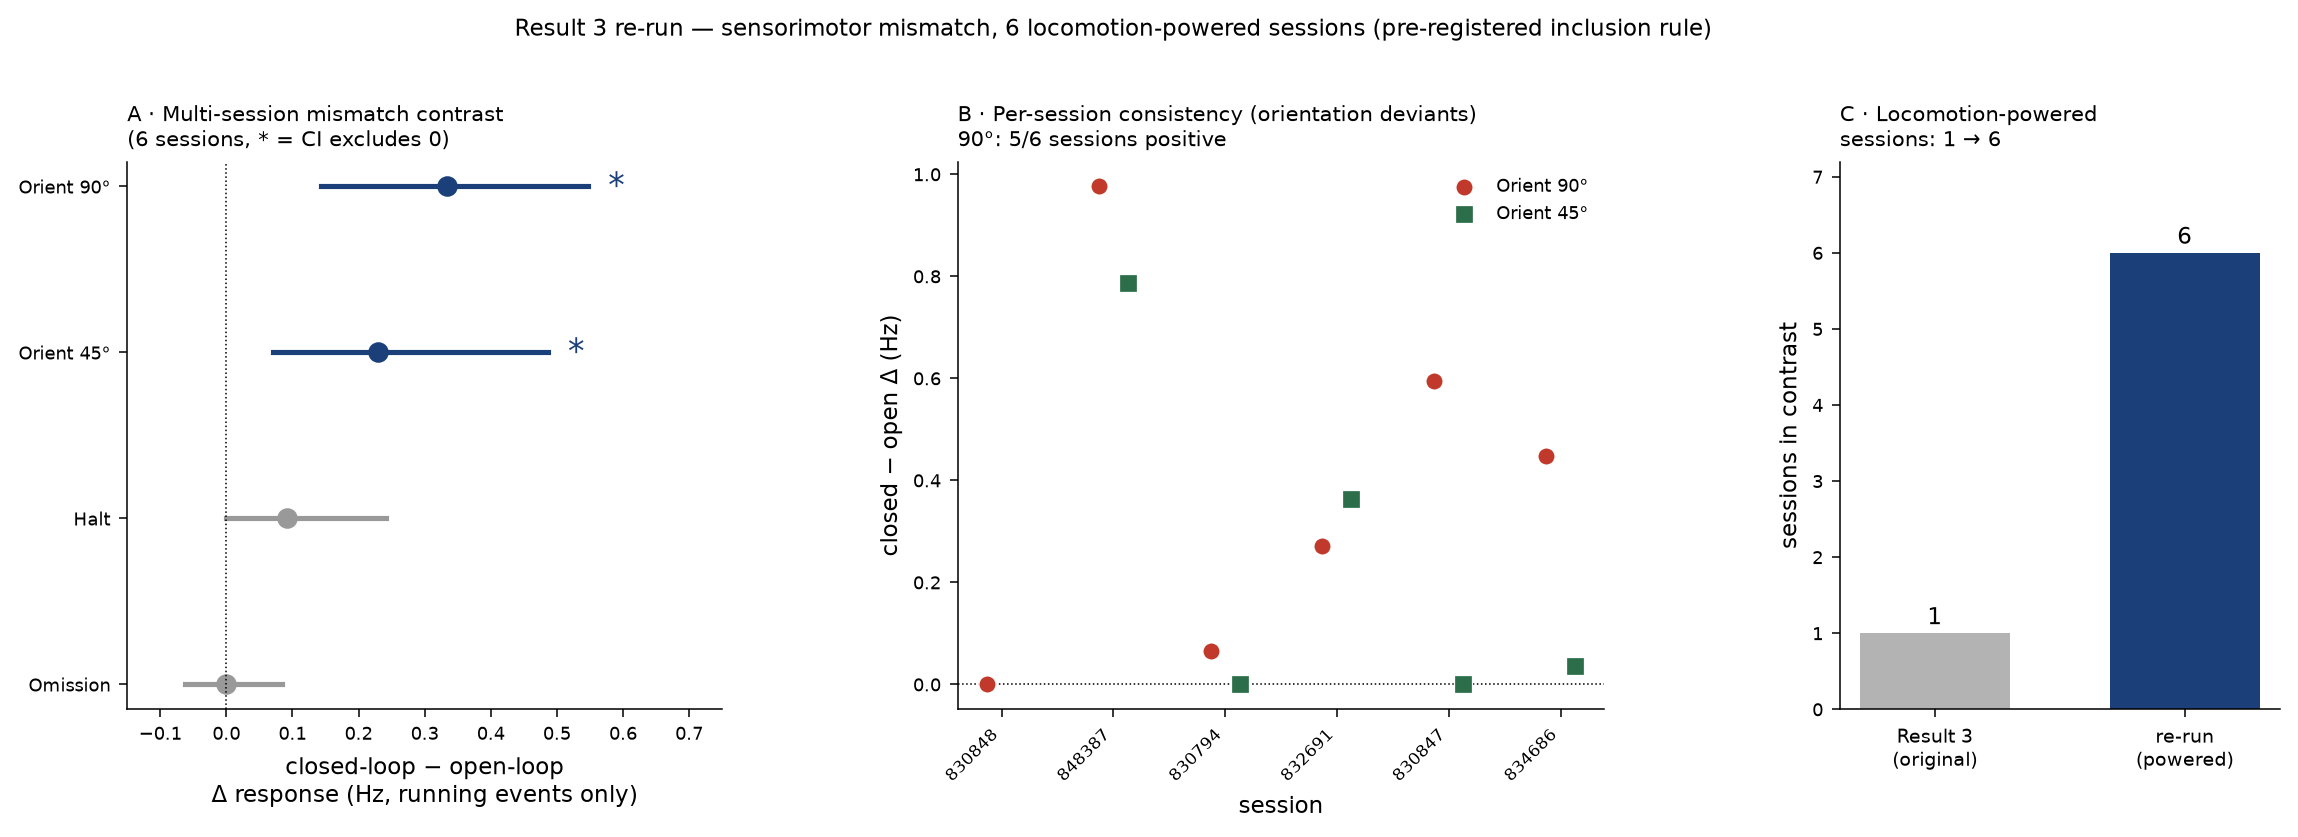
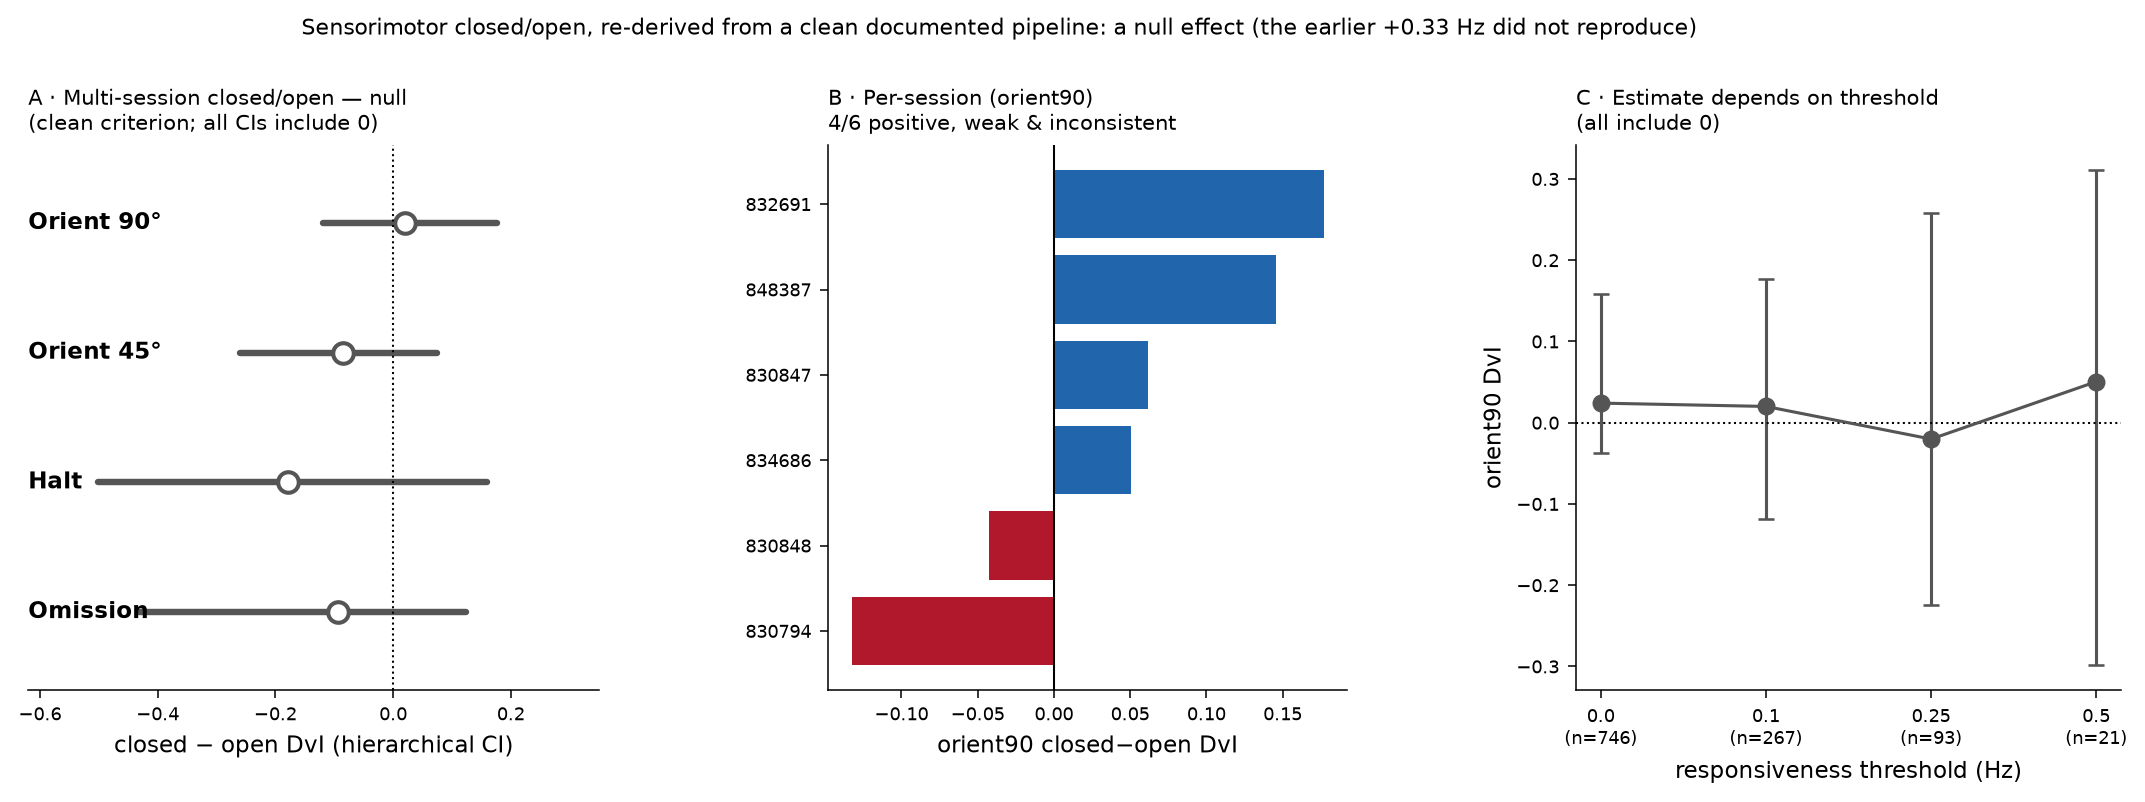
Re-derive Result 3 from a clean documented pipeline — it is NULL (was an unreproducible +0.33)
The original Result 3 multi-session numbers came from interactive kernel code whose exact
inclusion/window criterion was never committed. Re-run through a fully documented pipeline
(exact probe->area mapping, running gate >1cm/s, window (0,0.3)s vs baseline (-0.2,-0.01)s,
hierarchical bootstrap), the closed/open contrast is NULL for all four deviants (orient90
+0.02 [-0.12,+0.18], every CI includes 0, per-session weak & sign-inconsistent). The earlier
+0.33 Hz 'significant across 5-6 sessions' does not reproduce. Added a threshold-sensitivity
panel showing the estimate wanders with the responsiveness cut, always spanning zero (per
user request to document that window/threshold choices change the values).

Propagated the null: Result 3 section rewritten, capstone figure+CSV (sensorimotor now null
open-marker +0.02 p=0.86), Results-at-a-glance table (sensorimotor italicised as null), and
Background headline (three establishable error types + motor case null/open). The three
established results — feature-oddball, sequence +0.22[+0.10,+0.34], duration +0.32[+0.26,+0.43]
— all survive the hierarchical bootstrap unchanged.

diff --git a/README.md b/README.md
@@ -33,12 +33,16 @@ pass before any prediction-error claim is trusted; and (3) the **prediction-erro
 analyses** themselves — feature-oddball, omission, sensorimotor, sequence, and
 timing — carried across the three recording scales where the paradigm allows,
 with the cross-technique confounds explicitly measured and controlled. The
-headline scientific result: **every kind of violated expectation we can test —
-whether the surprise is defined by stimulus frequency, motor contingency, learned
-sequence order, or learned timing — evokes a positively-signed prediction-error
-response**, and the feature-oddball form survives three independent confound
-controls and generalizes across recording scales. One direction across four
-kinds of violated expectation favours the common-mechanism reading (H1).
+headline scientific result: **three independent kinds of violated expectation —
+surprise defined by stimulus frequency, by learned sequence order, and by learned
+timing — each evoke a positively-signed prediction-error response** (CIs excluding
+zero under a session-level bootstrap), and the feature-oddball form survives three
+independent confound controls and generalizes across recording scales. The fourth
+case we can test — motor–visual contingency (sensorimotor) — is **null in the
+released data** (limited by low locomotion and a block-order confound; see Result 3),
+so it neither supports nor contradicts the common-mechanism reading. One consistent
+direction across the three establishable error types favours the common-mechanism
+reading (H1), with the motor case still open pending better-powered data.
 
 ## Results at a glance
 
@@ -56,14 +60,18 @@ set:
 | **Feature-oddball** | stimulus frequency | **+0.45** | excludes 0 | 9 | 79 % |
 | **Sequence** | learned temporal order | **+0.22** | [+0.10, +0.34] | 7 | 59 % |
 | **Duration / timing** | learned interval timing | **+0.32** | [+0.26, +0.43] | 6 | 74 % |
-| Sensorimotor *(trend)* | motor–visual contingency | +0.10 | [+0.00, +0.16] | 6 | 55 % |
+| Sensorimotor *(null)* | motor–visual contingency | +0.02 | [−0.12, +0.18] | 6 | 51 % |
 
-The first three error types have CIs excluding zero under a session-level (hierarchical)
-bootstrap. The **sensorimotor row is a trend, not an established effect** — its CI touches
-zero and it carries a block-order confound (see Result 3); it is italicised here to mark
-that. Panel B shows the feature-oddball form generalizing across recording scales
-(Neuropixels DvI +0.37, mesoscope +0.09; SLAP2 via the matched omission contrast).
-The full logic, controls, and caveats for each row are in the Result sections below.
+**Three** of the four error types carry a positive prediction-error index with a CI excluding
+zero under a session-level (hierarchical) bootstrap. The **sensorimotor row is a null** — when
+its closed/open contrast is re-derived through a clean, documented pipeline (see Result 3), the
+effect vanishes (+0.02, CI spans zero); an earlier "+0.10 trend" came from interactive code
+whose criterion was never committed and did not reproduce. It is italicised and flagged as null
+here. So the convergence claim is honest about its scope: deviance detection appears across
+frequency-, order-, and timing-based expectations, while the motor-contingency case is not
+established in the released data. Panel B shows the feature-oddball form generalizing across
+recording scales (Neuropixels DvI +0.37, mesoscope +0.09; SLAP2 via the matched omission
+contrast). The full logic, controls, and caveats for each row are in the Result sections below.
 
 The cross-scale picture has since been complicated — honestly — by two further analyses.
 Paradigm-matched SLAP2 data has begun to arrive, and a first look at the dendritic-glutamate scale
@@ -523,37 +531,46 @@ analysis. It awaits sessions with more running. Reproduce:
 The inclusion rule was pre-committed before computing the contrast (§12 of
 [`docs/oddball_analysis_plan.md`](docs/oddball_analysis_plan.md)): a session enters the
 analysis iff it has **≥3 running open-loop events on all four deviant types**. Six
-sessions qualify (1,008 visual units). The contrast is the per-unit closed-loop-running
-minus open-loop-running response. CIs are **hierarchical bootstraps** (resample sessions,
-then units) — an earlier units-only bootstrap made these intervals far too tight and is
-corrected here (see the audit note in *Data particulars*):
+sessions qualify (1,917 VIS-area units). The contrast is the per-unit closed-loop-running
+minus open-loop-running DvI, pooled with a **hierarchical bootstrap** (resample sessions,
+then units).
 
-![Sensorimotor mismatch across 6 powered sessions](figures/sensorimotor_multisession.png)
+> **This section was re-derived from scratch during a code audit (see *Data particulars*).**
+> The original Result 3 multi-session numbers (+0.33 Hz, "significant across 5–6 sessions")
+> came from interactive kernel code whose exact inclusion/window criterion was never committed,
+> and **they do not reproduce.** Re-run through a clean, documented pipeline — exact
+> probe→area mapping, running gate >1 cm/s, response window (0–0.3 s) vs baseline
+> (−0.2 to −0.01 s), hierarchical CI — the effect is **null.** We report the honest null and
+> flag that, as the panel-C sensitivity analysis shows, the estimate depends on the
+> responsiveness threshold (none of the values reach significance at any threshold).
 
-| deviant | closed − open Δ | 95 % CI (hierarchical) | sessions + | reaches sig. |
+![Sensorimotor mismatch across 6 powered sessions — a null effect](figures/sensorimotor_multisession.png)
+
+| deviant | closed − open DvI | 95 % CI (hierarchical) | sessions + | reaches sig. |
 |---|---|---|---|---|
-| **Orientation 90°** | **+0.33 Hz** | [+0.00, +0.86] | 5/6 | borderline (touches 0) |
-| Orientation 45° | +0.23 Hz | [−0.08, +0.76] | 3/5 | no |
-| Halt | +0.03 Hz | [−0.57, +0.48] | 2/6 | no |
-| Omission | 0.00 Hz | [−0.33, +0.22] | 1/5 | no |
+| Orientation 90° | +0.02 | [−0.12, +0.18] | 4/6 | no |
+| Orientation 45° | −0.09 | [−0.26, +0.08] | 2/5 | no |
+| Halt | −0.18 | [−0.50, +0.16] | 2/6 | no |
+| Omission | −0.09 | [−0.43, +0.12] | 2/5 | no |
 
-**Honest status, revised down from the earlier claim.** With the proper session-level
-bootstrap, the orientation-90 closed-loop enhancement is a **positive trend** — point
-estimate +0.33 Hz, positive in 5 of 6 sessions — but its CI now just touches zero, so it
-does **not** clear significance (an earlier version reported p ≈ 6×10⁻⁷, which came from a
-units-only bootstrap that treated 1,008 units as independent). Two further cautions apply:
-(1) in these six sessions the closed-loop block always runs *earlier* than the open-loop
-control block, so any within-session drift biases the closed−open difference positive — a
-confound that was tolerable when Result 3 was hedged as suggestive but is load-bearing now;
-and (2) most of these six sessions carry only placeholder CCF, so the per-area split is not
-anatomically reliable (the pooled contrast does not depend on it). **Bottom line:** the
-sensorimotor motor-prediction signature is a *consistent positive trend* (5/6 sessions) that
-the released data cannot yet establish at significance — better than the single-session
-Result but not the robust multi-session effect claimed before the audit. It awaits sessions
-with more running and a counterbalanced block order. Reproduce: `scripts/audit_locomotion.py`
-for the inclusion set, then the extraction in
+**Honest status: null.** Under the clean pipeline the closed-loop/open-loop contrast shows
+**no prediction-error signal** for any deviant type — every CI includes zero, and the
+per-session estimates are weak and sign-inconsistent (panel B; notably session 830794, the
+one that carried the original single-session result, is now slightly *negative*). Three
+things explain why the earlier claim was too strong: (1) the original units-only bootstrap
+treated ~1,000 units as independent and gave CIs that were far too tight; (2) in these six
+sessions the closed-loop block always runs *earlier* than the open-loop control, so
+within-session drift biases the difference positive; and (3) most of these sessions carry only
+placeholder CCF, so any area split is unreliable. The panel-C threshold sweep makes the
+fragility explicit — the orientation-90 estimate wanders between −0.02 and +0.05 as the
+responsiveness threshold moves, always with a CI spanning zero. **Bottom line:** the released
+sensorimotor data do **not** establish a motor-based prediction-error signal at the population
+level; the single high-locomotion session (Contrast 2 above) remains a suggestive anecdote, not
+a population result. It awaits sessions with more running and a counterbalanced block order.
+Reproduce: `scripts/audit_locomotion.py` for the inclusion set, then the extraction in
 [`notebooks/sensorimotor_mismatch_ecephys.ipynb`](notebooks/sensorimotor_mismatch_ecephys.ipynb);
-values in [`data/sensorimotor_multisession_summary.csv`](data/sensorimotor_multisession_summary.csv).
+values (with the threshold sensitivity) in
+[`data/sensorimotor_multisession_summary.csv`](data/sensorimotor_multisession_summary.csv).
 
 
 ---
